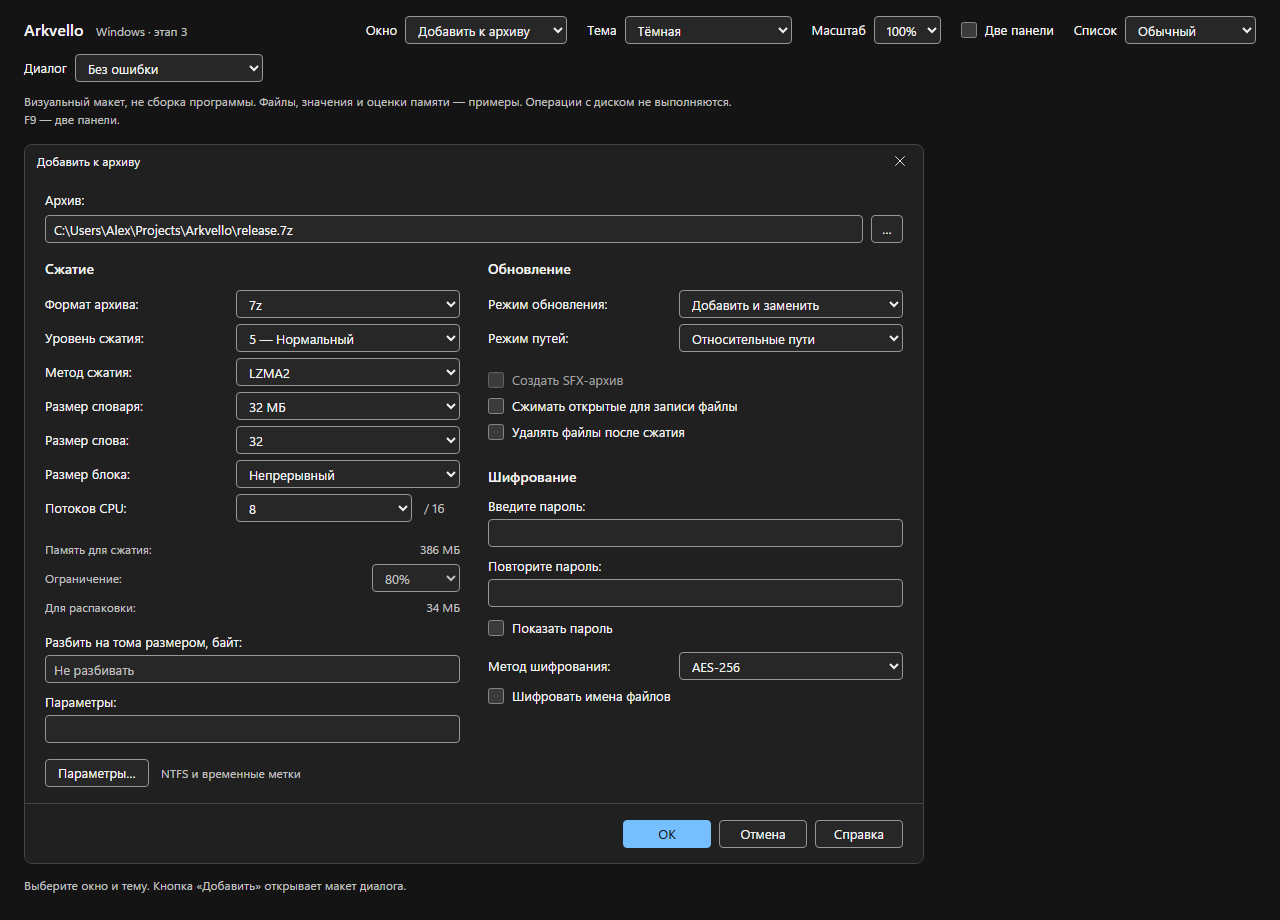
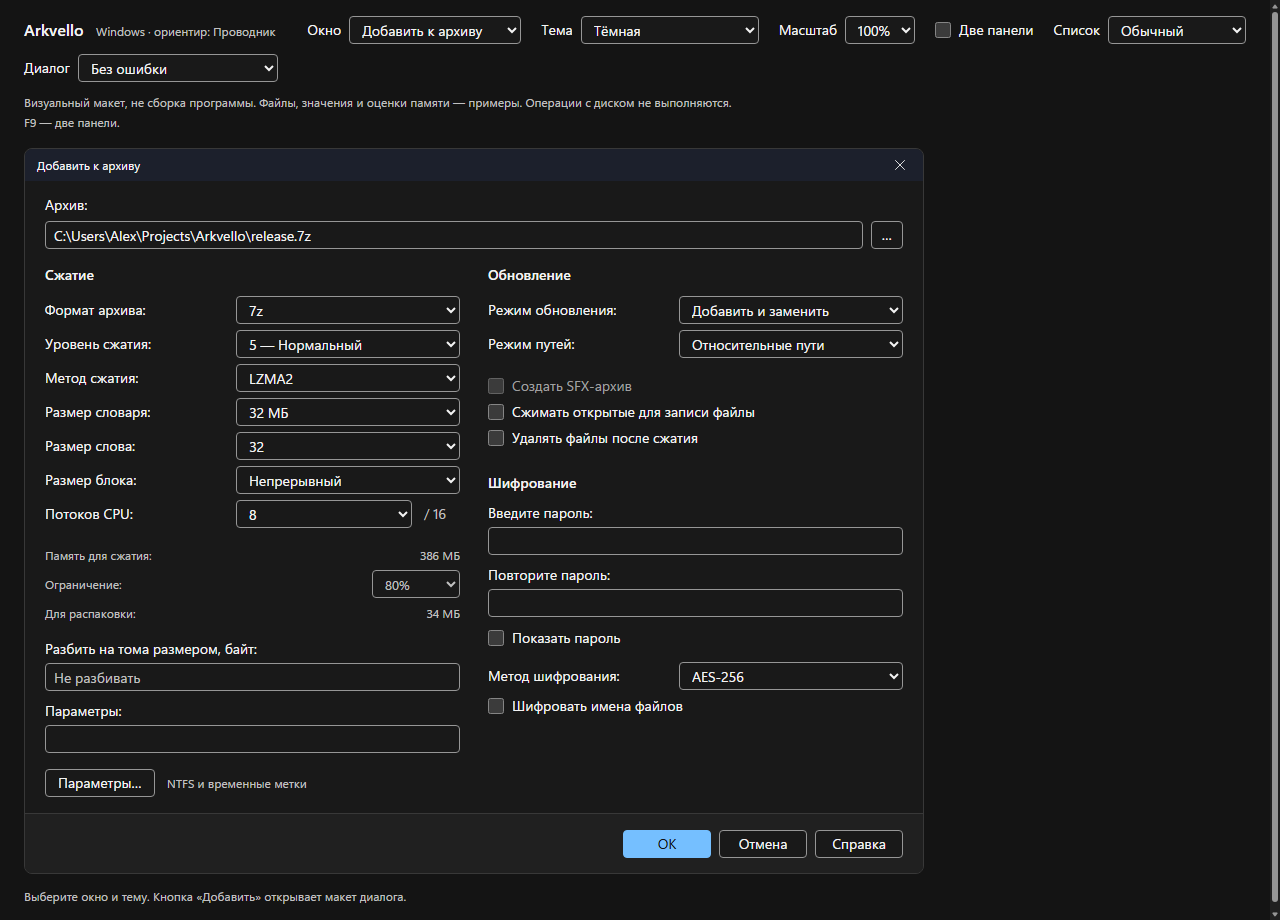
Refine interface studies against Windows 11 File Explorer

diff --git a/design/preview/style.css b/design/preview/style.css
@@ -1,6 +1,9 @@
 :root {
   color-scheme: light;
   --frame: #f3f3f3;
+  --navigation: #f0f2f5;
+  --path: #e5e8ed;
+  --path-hover: #dce0e6;
   --panel: #ffffff;
   --hover: #eaeaea;
   --pressed: #dfdfdf;
@@ -11,16 +14,17 @@
   --disabled: #6d6d6d;
   --accent: #005fb8;
   --on-accent: #ffffff;
-  --selected: #dcebfa;
+  --selected: #e5e5e5;
+  --selection-edge: #666666;
   --selected-text: #1a1a1a;
-  --inactive: #e5e5e5;
+  --inactive: #eeeeee;
   --error: #b42318;
   --error-surface: #fff1ef;
   --study-ground: #dedede;
   --scale: 1;
   font-family: "Segoe UI Variable Text", "Segoe UI", sans-serif;
-  font-size: 13px;
-  line-height: 18px;
+  font-size: 14px;
+  line-height: 20px;
   font-optical-sizing: auto;
   background: var(--study-ground);
   color: var(--text);
@@ -28,19 +32,23 @@
 :root[data-theme="dark"] {
   color-scheme: dark;
   --frame: #202020;
-  --panel: #272727;
-  --hover: #333333;
+  --navigation: #1c202c;
+  --path: #292d39;
+  --path-hover: #333846;
+  --panel: #191919;
+  --hover: #2d2d2d;
   --pressed: #3d3d3d;
-  --divider: #454545;
+  --divider: #383838;
   --edge: #969696;
   --text: #f3f3f3;
   --secondary: #c0c0c0;
   --disabled: #a0a0a0;
   --accent: #75bfff;
   --on-accent: #101010;
-  --selected: #243f58;
+  --selected: #414141;
+  --selection-edge: #b0b0b0;
   --selected-text: #f3f3f3;
-  --inactive: #3a3a3a;
+  --inactive: #303030;
   --error: #ffb4ab;
   --error-surface: #452521;
   --study-ground: #141414;
@@ -49,6 +57,10 @@
   color-scheme: dark;
   --frame: #000000;
   --panel: #000000;
+  --navigation: #000000;
+  --path: #000000;
+  --path-hover: #202020;
+  --selection-edge: #ffff00;
   --hover: #202020;
   --pressed: #333333;
   --divider: #ffffff;
@@ -100,50 +112,59 @@ svg { width: 20px; height: 20px; fill: none; stroke: currentColor; stroke-width:
 #stage { padding: 0 24px 8px; overflow: auto; }
 .window { background: var(--frame); border: 1px solid var(--divider); border-radius: 8px; overflow: hidden; zoom: var(--scale); }
 .manager { width: 1180px; height: 740px; max-width: 100%; display: flex; flex-direction: column; }
-.caption { min-height: 32px; height: 32px; display: flex; align-items: center; gap: 8px; padding-left: 12px; font-size: 12px; flex: 0 0 auto; }
+.caption { min-height: 32px; height: 32px; display: flex; align-items: center; gap: 8px; padding-left: 12px; font-size: 12px; flex: 0 0 auto; background: var(--navigation); }
 .app-mark { display: inline-block; width: 12px; height: 14px; border: 1px solid var(--secondary); border-radius: 2px; position: relative; }
 .app-mark::after { content: ""; position: absolute; width: 3px; height: 10px; left: 3px; top: 1px; border-left: 1px solid var(--secondary); border-right: 1px solid var(--secondary); }
 .caption-actions { display: flex; margin-left: auto; height: 100%; }
 .caption-actions svg { width: 46px; height: 32px; padding: 7px 14px; stroke-width: 1; }
-.menubar { display: flex; align-items: center; min-height: 28px; padding: 0 4px; }
+.menubar { display: flex; align-items: center; min-height: 28px; padding: 0 8px; background: var(--navigation); font-size: 13px; }
 .menubar button { border: 0; background: transparent; min-height: 24px; padding: 2px 9px; }
-.commands { display: flex; align-items: center; gap: 2px; height: 60px; flex: 0 0 auto; padding: 4px 8px; border-bottom: 1px solid var(--divider); }
-.commands button { display: flex; flex-direction: column; align-items: center; justify-content: center; gap: 3px; width: 76px; height: 52px; min-width: 76px; padding: 3px 1px; border-color: transparent; background: transparent; font-size: 12px; }
-.command-divider { height: 36px; width: 1px; background: var(--divider); margin: 0 6px; }
-.panels { flex: 1; min-height: 0; display: flex; gap: 5px; }
+.commands { display: flex; align-items: center; gap: 4px; height: 52px; flex: 0 0 auto; padding: 6px 12px; border-bottom: 1px solid var(--divider); background: var(--panel); overflow-x: auto; }
+.commands button { display: flex; align-items: center; justify-content: center; gap: 9px; height: 36px; flex: 0 0 auto; padding: 6px 10px; border-color: transparent; background: transparent; font-size: 14px; }
+.commands svg { stroke-width: 1.25; }
+.command-divider { height: 28px; width: 1px; flex: 0 0 auto; background: var(--divider); margin: 0 6px; }
+.panels { flex: 1; min-height: 0; display: flex; gap: 3px; }
 .panel { display: flex; flex-direction: column; min-width: 0; flex: 1; background: var(--panel); }
 .panel + .panel { border-left: 1px solid var(--divider); }
-.pathbar { height: 36px; display: flex; gap: 6px; padding: 4px 6px; background: var(--frame); flex: 0 0 auto; }
-.pathbar button { width: 28px; padding: 3px; border-color: transparent; background: transparent; }
-.pathbar input { border-color: var(--edge); padding-left: 8px; }
+.pathbar { height: 48px; display: flex; align-items: center; gap: 8px; padding: 6px 12px; background: var(--navigation); flex: 0 0 auto; }
+.pathbar button { width: 32px; height: 32px; padding: 5px; border-color: transparent; background: transparent; }
+.path-field { display: flex; align-items: center; flex: 1; min-width: 0; height: 34px; border-radius: 5px; background: var(--path); padding-left: 10px; }
+.path-field > svg { width: 18px; height: 18px; color: var(--secondary); }
+.path-field:hover { background: var(--path-hover); }
+.path-field input { height: 34px; border-color: transparent; background: transparent; padding-left: 10px; }
+.path-field:focus-within { outline: 2px solid var(--accent); outline-offset: -2px; }
+.path-field input:focus-visible { outline: none; border-color: transparent; }
 .file-scroll { flex: 1; min-height: 0; overflow: auto; }
-.file-table { border-collapse: collapse; width: 100%; table-layout: fixed; font-size: 13px; line-height: 18px; font-variant-numeric: tabular-nums; }
+.file-table { border-collapse: collapse; width: 100%; table-layout: fixed; font-size: 14px; line-height: 20px; font-variant-numeric: tabular-nums; }
 .file-table col.name { width: auto; }
 .file-table col.size { width: 116px; }
 .file-table col.date { width: 148px; }
 .file-table col.kind { width: 94px; }
 .file-table thead { position: sticky; top: 0; z-index: 1; background: var(--panel); }
-.file-table th { height: 28px; font-weight: 400; text-align: left; color: var(--secondary); border-bottom: 1px solid var(--divider); padding: 0 8px; }
+.file-table th { height: 32px; font-weight: 400; text-align: left; color: var(--text); padding: 0 10px; }
 .file-table th + th { border-left: 1px solid var(--divider); }
 .sort { display: inline-block; width: 5px; height: 5px; transform: rotate(45deg); border-left: 1px solid currentColor; border-top: 1px solid currentColor; margin: 0 0 0 6px; }
-.file-table td { padding: 0 8px; height: 22px; overflow: hidden; text-overflow: ellipsis; white-space: nowrap; }
+.file-table td { padding: 0 10px; height: 28px; overflow: hidden; text-overflow: ellipsis; white-space: nowrap; }
 .file-table td.number, .file-table th.number { text-align: right; }
-.file-table td:first-child { padding-left: 10px; }
-.file-name { display: flex; align-items: center; gap: 7px; }
+.file-table td:first-child { padding-left: 14px; }
+.file-name { display: flex; align-items: center; gap: 8px; }
 .file-name span { overflow: hidden; text-overflow: ellipsis; white-space: nowrap; }
-.file-name svg { width: 16px; height: 16px; color: var(--secondary); }
-.file-name svg.folder { stroke: #986800; }
-:root[data-theme="dark"] .file-name svg.folder { stroke: #dfbf6b; }
+.file-name svg { width: 18px; height: 18px; color: var(--secondary); }
+.file-name svg.folder { stroke: #986800; fill: #ffcf55; stroke-width: 1; }
+:root[data-theme="dark"] .file-name svg.folder { stroke: #e5b63c; }
+.file-name svg.file { fill: var(--frame); stroke-width: 1; }
+.file-table tbody tr:hover { background: var(--hover); }
 .file-table tr[aria-selected="true"] { background: var(--selected); color: var(--selected-text); }
 .file-table tr[aria-selected="true"] svg { color: inherit; }
 .panel.inactive tr[aria-selected="true"] { background: var(--inactive); color: var(--text); }
-.file-table tr:focus { outline: 1px solid var(--accent); outline-offset: -1px; }
+.file-table tr:focus { outline: 1px solid var(--selection-edge); outline-offset: -1px; }
+.file-table tr:focus-visible { outline: 2px solid var(--accent); outline-offset: -2px; }
 .panel-status { height: 26px; border-top: 1px solid var(--divider); background: var(--frame); display: flex; align-items: center; color: var(--secondary); font-size: 12px; flex: 0 0 auto; overflow: hidden; white-space: nowrap; }
 .panel-status span { padding: 0 12px; }
 .panel-status span + span { border-left: 1px solid var(--divider); }
-.archive { width: 900px; max-width: 100%; display: flex; flex-direction: column; max-height: calc((100vh - 146px) / var(--scale)); }
+.archive { width: 900px; max-width: 100%; display: flex; flex-direction: column; max-height: calc(var(--available-height, 720px) / var(--scale)); }
 .archive form { display: flex; flex-direction: column; min-height: 0; overflow: hidden; }
-.archive-content { padding: 14px 20px 16px; overflow: auto; min-height: 0; }
+.archive-content { padding: 14px 20px 16px; overflow: auto; min-height: 0; background: var(--panel); }
 .archive-path { display: block; margin-bottom: 6px; }
 .path-input { display: flex; gap: 8px; }
 .path-input button { width: 32px; padding: 0; flex: 0 0 auto; }
@@ -172,7 +193,7 @@ dialog { border: 1px solid var(--divider); border-radius: 8px; padding: 0; color
 dialog[open] { display: flex; flex-direction: column; }
 dialog::backdrop { background: #00000040; }
 dialog form { margin: 0; display: flex; flex-direction: column; min-height: 0; overflow: hidden; }
-.options-content { padding: 16px 20px 20px; overflow: auto; min-height: 0; }
+.options-content { padding: 16px 20px 20px; overflow: auto; min-height: 0; background: var(--panel); }
 .time-heading { margin-top: 20px; }
 .option-hint { font-size: 12px; margin: 0 0 10px; }
 .override-row { display: flex; gap: 10px; align-items: center; min-height: 32px; }
@@ -193,8 +214,10 @@ dialog form { margin: 0; display: flex; flex-direction: column; min-height: 0; o
     --on-accent: HighlightText; --selected: Highlight;
     --selected-text: HighlightText; --inactive: Canvas;
     --error: CanvasText; --error-surface: Canvas; --study-ground: Canvas;
+    --navigation: Canvas; --path: Canvas; --path-hover: Canvas; --selection-edge: Highlight;
   }
   .file-table tr[aria-selected="true"] { forced-color-adjust: none; }
   .panel.inactive tr[aria-selected="true"] { outline: 1px solid CanvasText; outline-offset: -1px; }
-  .file-name svg.folder { stroke: currentColor; }
+  .file-name svg.folder { stroke: currentColor; fill: none; }
+  .path-field { outline: 1px solid ButtonText; outline-offset: -1px; }
 }

diff --git a/design/preview/preview.js b/design/preview/preview.js
@@ -3,6 +3,11 @@ const $ = selector => document.querySelector(selector);
 const query = new URLSearchParams(location.search);
 const systemTheme = matchMedia('(prefers-color-scheme: dark)');
 const feedback = message => { $('#feedback').textContent = message; };
+function fitStudy() {
+  const top = $('#stage').getBoundingClientRect().top + scrollY;
+  document.documentElement.style.setProperty('--available-height', `${Math.max(160, innerHeight - top - 12)}px`);
+}
+window.addEventListener('resize', fitStudy);
 
 const files = [
   ['..', '', '', '', 'folder'],
@@ -28,12 +33,13 @@ function showSurface(surface) {
   $('#manager').hidden = surface !== 'main';
   $('#archive').hidden = surface !== 'archive';
   $('#dialog-state-control').hidden = surface !== 'archive';
+  fitStudy();
 }
 function makePanel(number) {
   const panel = document.createElement('section');
   panel.className = `panel${number ? ' inactive' : ''}`;
   panel.setAttribute('aria-label', number ? 'Правая панель' : 'Левая панель');
-  panel.innerHTML = `<div class="pathbar"><button type="button" aria-label="На уровень вверх"><svg><use href="#up"/></svg></button><input aria-label="Путь ${number ? 'правой' : 'левой'} панели" spellcheck="false" list="history-${number}"><datalist id="history-${number}"><option value="C:\\Users\\Alex\\Projects\\Arkvello\\"><option value="D:\\Backups\\"></datalist></div><div class="file-scroll"><table class="file-table" aria-label="Пример списка файлов"><colgroup><col class="name"><col class="size"><col class="date"><col class="kind"></colgroup><thead><tr><th scope="col" aria-sort="ascending">Имя<span class="sort" aria-hidden="true"></span></th><th scope="col" class="number">Размер</th><th scope="col">Изменён</th><th scope="col">Тип</th></tr></thead><tbody></tbody></table></div><div class="panel-status"><span class="count"></span><span class="selection"></span></div>`;
+  panel.innerHTML = `<div class="pathbar"><button type="button" aria-label="На уровень вверх"><svg><use href="#up"/></svg></button><div class="path-field"><svg aria-hidden="true"><use href="#location"/></svg><input aria-label="Путь ${number ? 'правой' : 'левой'} панели" spellcheck="false" list="history-${number}"><datalist id="history-${number}"><option value="C:\\Users\\Alex\\Projects\\Arkvello\\"><option value="D:\\Backups\\"></datalist></div></div><div class="file-scroll"><table class="file-table" aria-label="Пример списка файлов"><colgroup><col class="name"><col class="size"><col class="date"><col class="kind"></colgroup><thead><tr><th scope="col" aria-sort="ascending">Имя<span class="sort" aria-hidden="true"></span></th><th scope="col" class="number">Размер</th><th scope="col">Изменён</th><th scope="col">Тип</th></tr></thead><tbody></tbody></table></div><div class="panel-status"><span class="count"></span><span class="selection"></span></div>`;
   panel.querySelector('.pathbar input').value = number ? 'D:\\Backups\\' : 'C:\\Users\\Alex\\Projects\\Arkvello\\';
   let data = number ? backupFiles : files;
   if ($('#list-state').value === 'empty') data = [files[0]];

diff --git a/design/preview/index.html b/design/preview/index.html
@@ -8,7 +8,7 @@
 </head>
 <body>
   <header class="study-controls">
-    <strong>Arkvello <span>Windows · этап 3</span></strong>
+    <strong>Arkvello <span>Windows · ориентир: Проводник</span></strong>
     <label>Окно <select id="surface"><option value="main">Файловый менеджер</option><option value="archive">Добавить к архиву</option></select></label>
     <label>Тема <select id="theme"><option value="system">Системная</option><option value="light">Светлая</option><option value="dark">Тёмная</option><option value="contrast">Контрастная (пример)</option></select></label>
     <label>Масштаб <select id="scale"><option value="1">100%</option><option value="1.25">125%</option><option value="1.5">150%</option><option value="2">200%</option></select></label>
@@ -113,6 +113,7 @@
     <symbol id="delete" viewBox="0 0 20 20"><path d="M3 5h14M7 5V2h6v3M5 5l1 13h8l1-13M8 8v7M12 8v7"/></symbol>
     <symbol id="info" viewBox="0 0 20 20"><circle cx="10" cy="10" r="8"/><path d="M10 9v6M10 5v1"/></symbol>
     <symbol id="up" viewBox="0 0 20 20"><path d="M10 17V3M5 8l5-5 5 5"/></symbol>
+    <symbol id="location" viewBox="0 0 20 20"><rect x="2" y="3" width="16" height="11" rx="2"/><path d="M7 17h6M10 14v3"/></symbol>
     <symbol id="folder" viewBox="0 0 20 20"><path d="M2 5h6l2 2h8v10H2zM2 5V3h6l2 2h7v2"/></symbol>
     <symbol id="file" viewBox="0 0 20 20"><path d="M4 2h8l4 4v12H4zM12 2v5h4"/></symbol>
     <symbol id="minimize" viewBox="0 0 20 20"><path d="M5 10h10"/></symbol>

diff --git a/DESIGN.md b/DESIGN.md
@@ -9,6 +9,13 @@ come from [PRODUCT.md](PRODUCT.md), control ownership from
 
 ## Direction
 
+Primary visual reference: the user's Windows 11 File Explorer screenshot,
+reviewed 2026-11-15. Match its surface hierarchy, neutral row selection,
+horizontal command treatment and softly filled address field. The screenshot
+is a visual reference, not a request for Explorer tabs, sidebar or search.
+Colors below are authored approximations, not extracted OS theme constants;
+the navigation tint is deliberately subtle and has a solid-color fallback.
+
 Native Windows 11, compact desktop utility. The user's familiar 7zFM layout is
 the composition: menu, grouped commands, editable panel paths, dense lists,
 panel status; the archive dialog keeps its two-column form and visible advanced
@@ -31,18 +38,22 @@ default.
 - Prefer Segoe UI Variable Text where the renderer supports it; Segoe UI is the
   GDI fallback. Do not bundle Microsoft fonts. Preserve Windows font fallback
   for Cyrillic, CJK and other scripts.
-- Primary UI, file rows and form labels: 13 DIP regular, 18 DIP line box.
+- Primary UI, file rows and form labels: 14 DIP regular, 20 DIP line box.
   Secondary status text: 12/16. Group headings: 14/20 semibold. Native caption
   text remains system-owned. No all-caps labels or decorative tracking.
 - Base spacing: 4; related controls 8; group separation 16; dialog inset 20.
 - Main window study: 1180 x 740; initial useful target 960 x 640. These do not
   replace existing saved geometry or impose a new main-window minimum yet.
-- Main menu 28 high; command band 60; path band 36; list header 28; details row
-  22; status 26. Native caption height is system-derived, illustrated at 32.
-- Toolbar normal commands: 76 wide, 52 high, 20 DIP command glyph above 12 DIP
-  label; preserve existing large/small/text visibility options. Large-button
+- Main menu 28 high with 13 DIP text; command band 52; path band 48; list header
+  32; details row 28; status 26. Native caption height is system-derived,
+  illustrated at 32. Keep upstream density options available in production.
+- Toolbar normal commands: 36 high, 20 DIP command glyph beside a 14 DIP label,
+  9 DIP icon/text gap and 10 DIP horizontal padding; preserve existing
+  large/small/text visibility options. Large-button
   mode must use a scaled icon source, not stretch the small bitmap.
-- Paths, inputs, combos and dialog buttons: 28 high; labels have at least 4 DIP
+- Address fields: 34 high, softly filled, 5 DIP corners; outline the whole field
+  on focus. Retain directly editable paths and history. Other inputs, combos
+  and dialog buttons: 28 high; labels have at least 4 DIP
   clearance. Check target row 26 high, glyph 16. Button minimum width 88; browse
   button 32. Text can expand widths; labels may wrap without overlap.
 - Control corners 4; outer window corners belong to Windows. No rounded file
@@ -56,7 +67,7 @@ default.
 
 Microsoft's [Windows typography guidance](https://learn.microsoft.com/en-us/windows/apps/design/signature-experiences/typography)
 identifies Segoe UI Variable and a 12 DIP regular minimum. The slightly denser
-13 DIP body here is deliberate for this file manager; do not substitute the
+14 DIP body here is deliberate for this file manager; do not substitute the
 large typography of a touch-first settings application.
 
 ## Palette and theme resolution
@@ -65,16 +76,20 @@ The preview's [CSS tokens](design/preview/style.css) are the visual reference.
 The native prototype must resolve the same semantic roles for both `7zFM.exe`
 and `7zG.exe`, rather than introduce independent palettes.
 
-- **Light**: frame `#F3F3F3`, panel/input `#FFFFFF`, raised/hover `#EAEAEA`,
+- **Light**: frame `#F3F3F3`, navigation/caption `#F0F2F5`, address `#E5E8ED`
+  (hover `#DCE0E6`), panel/input `#FFFFFF`, raised/hover `#EAEAEA`,
   pressed `#DFDFDF`, divider `#D5D5D5`, control edge `#8A8A8A`, text `#1A1A1A`,
   secondary `#5C5C5C`, disabled `#6D6D6D`, accent `#005FB8`, accent text
-  `#FFFFFF`, focused selection `#DCEBFA`, selection text `#1A1A1A`, inactive
-  selection `#E5E5E5`, error `#B42318`, error surface `#FFF1EF`.
-- **Dark**: frame `#202020`, panel/input `#272727`, raised/hover `#333333`,
-  pressed `#3D3D3D`, divider `#454545`, control edge `#969696`, text `#F3F3F3`,
+  `#FFFFFF`, focused selection `#E5E5E5`, selection text `#1A1A1A`, inactive
+  selection `#EEEEEE`, current-item outline `#666666`, error `#B42318`, error
+  surface `#FFF1EF`.
+- **Dark**: frame `#202020`, navigation/caption `#1C202C`, address `#292D39`
+  (hover `#333846`), panel/input `#191919`, raised/hover `#2D2D2D`,
+  pressed `#3D3D3D`, divider `#383838`, control edge `#969696`, text `#F3F3F3`,
   secondary `#C0C0C0`, disabled `#A0A0A0`, accent `#75BFFF`, accent text
-  `#101010`, focused selection `#243F58`, selection text `#F3F3F3`, inactive
-  selection `#3A3A3A`, error `#FFB4AB`, error surface `#452521`.
+  `#101010`, focused selection `#414141`, selection text `#F3F3F3`, inactive
+  selection `#303030`, current-item outline `#B0B0B0`, error `#FFB4AB`, error
+  surface `#452521`.
 - **System** is the initial preference: resolve Windows application light/dark
   preference, listen for changes, repaint existing windows, descendants and
   open popups. An explicit app theme overrides application light/dark only.
@@ -86,7 +101,7 @@ and `7zG.exe`, rather than introduce independent palettes.
   is optional later, provided contrasting foregrounds and selected rows remain
   correct. No arbitrary OS accent is accepted without contrast checks.
 
-Use color for selected items, focus and the default dialog action. Toolbar
+Use neutral fills for selected items, accent for focus and the default action. Toolbar
 commands stay neutral, including Delete; destructive confirmation retains its
 original behavior. Avoid pure red selection fills. Alternative selection mode
 must retain its separate marked-items/current-item semantics with a selection
@@ -105,7 +120,8 @@ controls do not acquire these colors automatically by following WinUI advice.
 - **Pressed**: deeper neutral surface. Default action remains identifiable when
   another control owns focus; default and keyboard focus are different states.
 - **Keyboard focus**: 2 DIP high-contrast outline, inset/offset so it is not
-  clipped. Edits also have a 2 DIP accent bottom rule. Keep native caret,
+  clipped. Dialog edits also have a 2 DIP accent bottom rule; the address field
+  uses a surrounding focus outline instead. Keep native caret,
   selection, default-button behavior and visible keyboard cues.
 - **Selected list item**: rectangular fill across the user's configured full-row
   or item selection extent. Current/focused item has a distinct outline. An
@@ -176,7 +192,9 @@ original flag, enabled state, keyboard ordering and tri-state behavior if used.
 
 ## Icons, interaction and motion
 
-Use a consistent 20 DIP line-icon grid, 1.5 DIP stroke with optical alignment.
+Use a consistent 20 DIP line-icon grid, 1.25 DIP command strokes (1.5 for
+navigation) with optical alignment. Sample folder icons use a restrained gold
+fill and 1 DIP outline, instead of the previous outline-only placeholders.
 The study contains original SVG geometry for the seven commands and navigation;
 these are design references, not replacement product-logo assets. Production
 may render vector geometry or approved multi-resolution assets; keep shell

diff --git a/docs/DESIGN-VALIDATION.md b/docs/DESIGN-VALIDATION.md
@@ -1,6 +1,6 @@
 # Stage 3 design validation
 
-2026-11-15. Applies to [DESIGN.md](../DESIGN.md) and the
+2026-11-15, revised against the user's File Explorer reference. Applies to [DESIGN.md](../DESIGN.md) and the
 [HTML studies](../design/preview/index.html), not the Win32 binaries.
 
 ## Performed
@@ -13,7 +13,7 @@ with `failed to write kernel assets` / OS error 3; local headless rendering
 provided visual and DOM checks without accessing external pages.
 
 - JavaScript syntax check passed (`node --check`).
-- Main-window measured geometry: 1180 x 740 CSS pixels; details rows: 22 pixels
+- Main-window measured geometry: 1180 x 740 CSS pixels; details rows: 28 pixels
   in light, dark and illustrative contrast themes.
 - Both dialog action footers stayed inside the 920-pixel viewport at CSS scales
   100%, 125%, 150%, 200%. At 125% and above, the archive form scrolls; its
@@ -33,13 +33,22 @@ provided visual and DOM checks without accessing external pages.
 Palette contrast was calculated with WCAG relative luminance, from the CSS
 semantic tokens. Light/dark ratios respectively:
 
-- Primary text on panel: **17.40 / 13.46**.
+- Primary text on panel: **17.40 / 15.84**.
 - Secondary text on frame: **6.03 / 8.96**.
 - Disabled foreground on frame: **4.66 / 6.23**.
 - Primary-button foreground: **6.31 / 9.65**.
-- Selected-row text: **14.34 / 9.82**.
-- Inactive-selection text: **13.82 / 10.25**.
-- Input edge against panel: **3.45 / 5.05**; against frame: **3.11 / 5.51**.
+- Selected-row text: **13.82 / 9.20**.
+- Inactive-selection text: **15.00 / 11.89**.
+- Input edge against panel: **3.45 / 5.94**; against frame: **3.11 / 5.51**.
+
+The revised address field uses a filled surface and surrounding focus outline,
+not a permanent edit border. Dialog edits retain visible borders. The command
+band uses horizontal icon/label pairs; the list now uses 14 DIP text and 28 DIP
+rows. Dark navigation and address surfaces have a subtle blue-gray tint while
+the file area is neutral `#191919`. File icons remain authored sample geometry;
+production will use shell-provided icons. No Explorer functionality was added.
+Available archive height is measured from the viewer's actual wrapped toolbar,
+so its footer remains visible when viewer controls occupy a second line.
 
 The initial disabled light foreground was corrected after this check. These
 ratios certify the listed token pairs, not every browser-native control pixel

diff --git a/design/preview/README.md b/design/preview/README.md
@@ -7,6 +7,10 @@ study viewer, not the proposed application chrome.
 
 The native C++ executables remain unchanged. This is a visual reference for
 stage 4, not a web frontend proposal or a replacement archive implementation.
+The 2026-11-15 revision follows the user's Windows 11 File Explorer screenshot:
+horizontal commands, filled address fields, neutral selection, darker file
+surface and more relaxed 28 DIP rows. The 7zFM menu, commands and panel layout
+remain the product structure; tabs, search and a sidebar are outside this study.
 Sample file names, counts, sizes, paths, memory estimates and enabled/disabled
 controls are illustrative. Typed values stay in the current page only.
 
